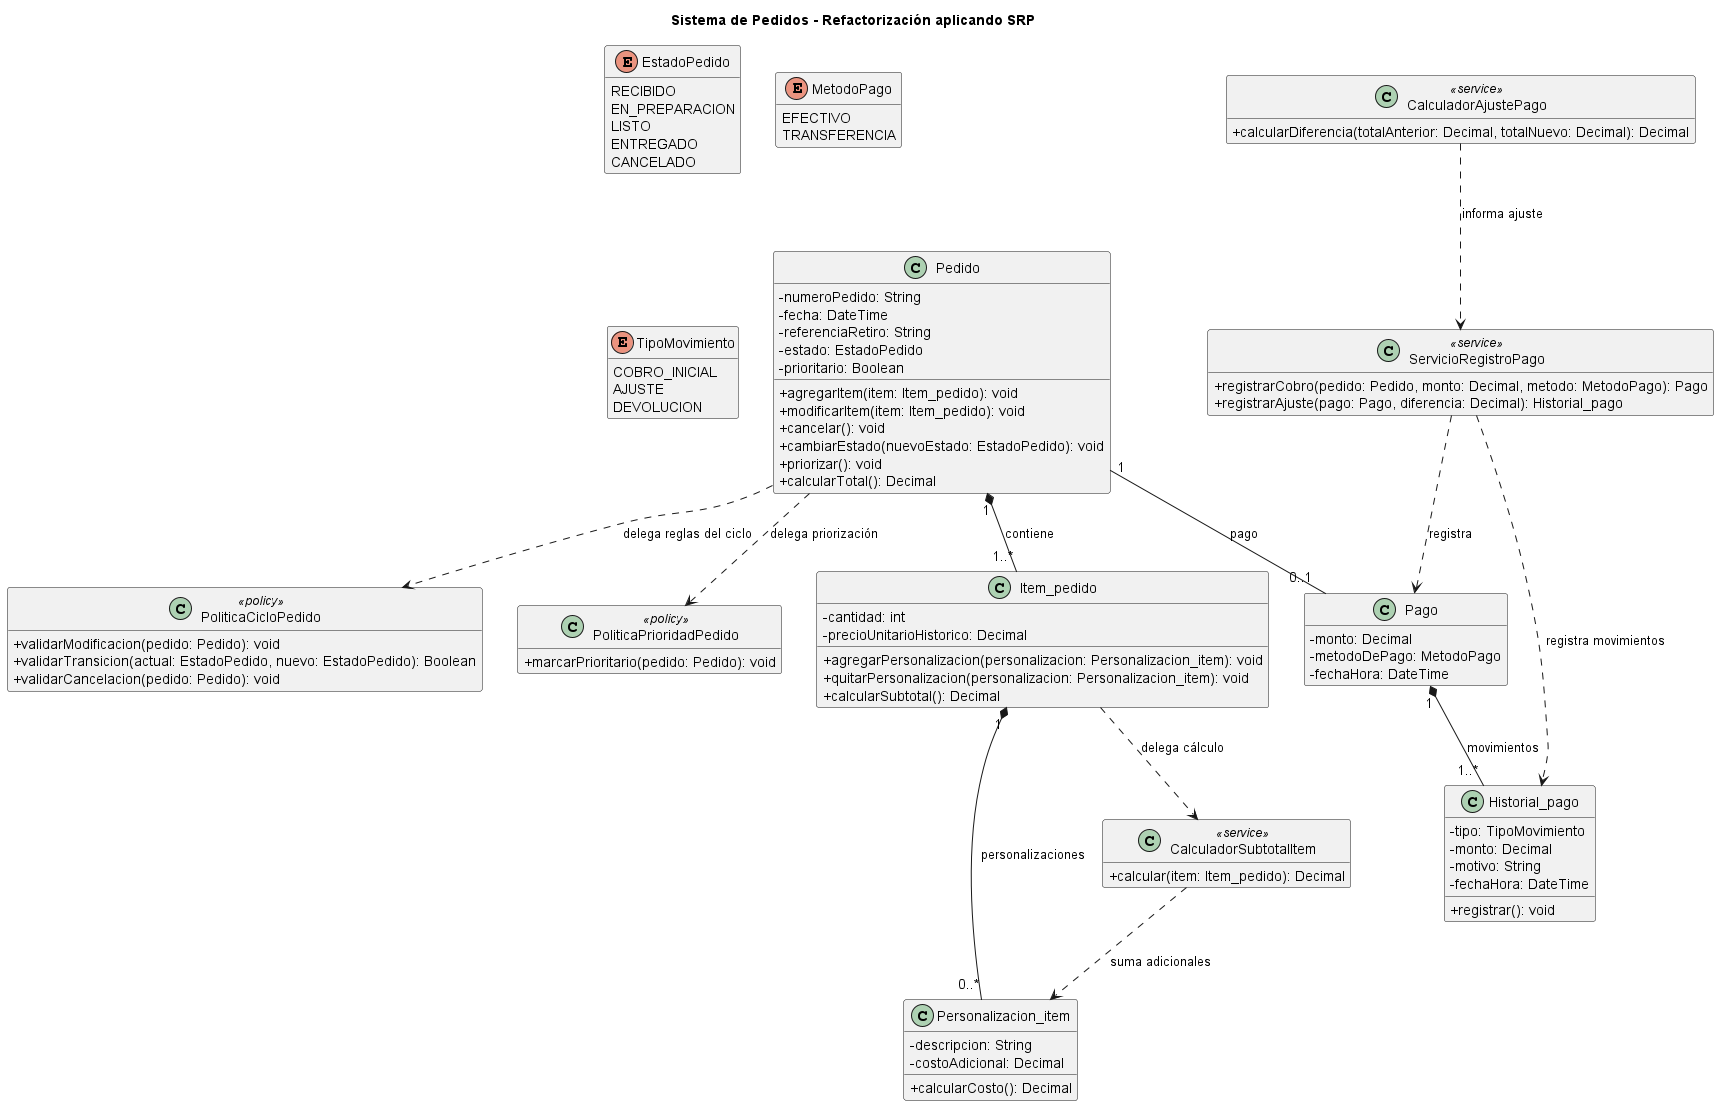
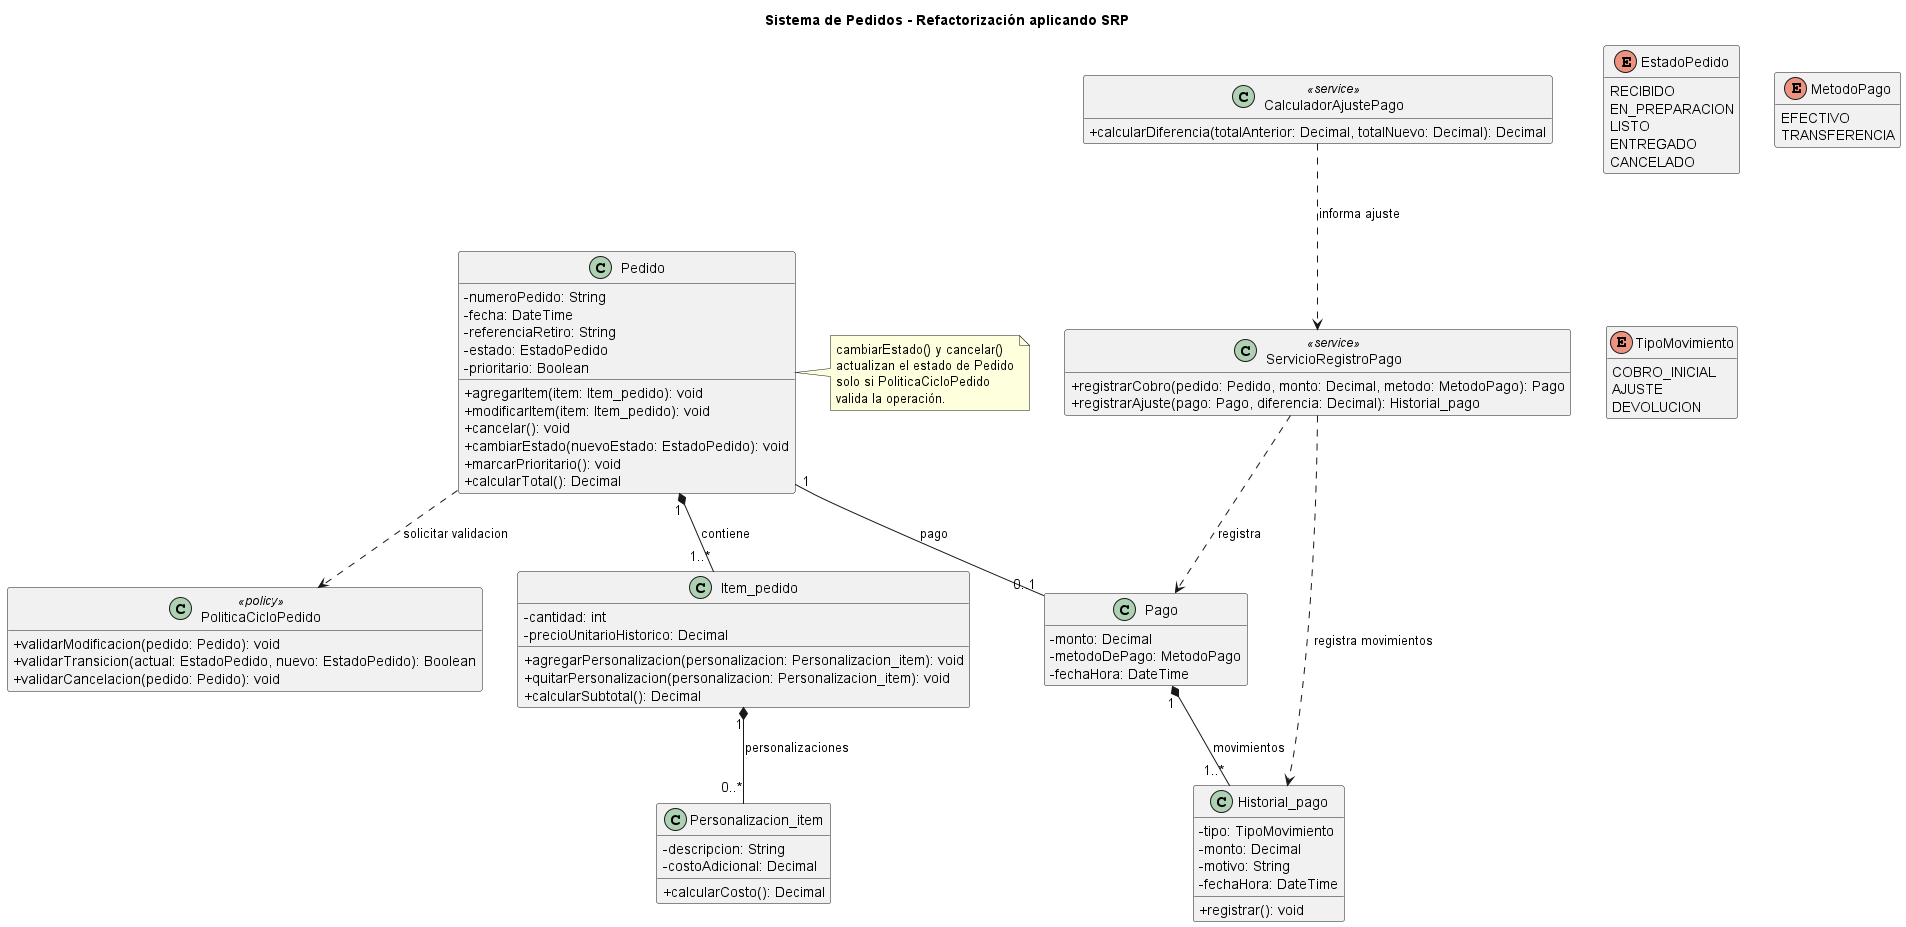
creo rama fix con correcciones de pulido sobre el diagrama srp

diff --git a/anexos/principios-solid/01-srp.md b/anexos/principios-solid/01-srp.md
@@ -12,7 +12,7 @@ La aplicación del **Principio de Responsabilidad Única (SRP)** soluciona el pr
 
 - **Gestión de la Estructura de la Orden**: Almacenar y administrar la información propia de la orden (identificador, fecha, referencia de retiro y la colección de ítems).
 - **Control del Ciclo de Vida y Transiciones de Estado**: El pedido puede cambiar de estado (de `RECIBIDO` a `EN_PREPARACION`, `LISTO`, `ENTREGADO` o `CANCELADO`) y aplicar reglas de como **bloquear modificaciones si el estado es posterior a** **RECIBIDO**.
-- **Evaluación de la Prioridad del Pedido**: Determinar las reglas comerciales para calcular si un pedido es prioritario o no (según el perfil del cliente, tipo de retiro o nivel de urgencia).
+- **Priorización del Pedido**: La operación para marcar un pedido como prioritario estaba mezclada con las demás operaciones de `Pedido`. Según el requisito RF7, la marca es manual; no se definen criterios automáticos de prioridad.
 
 #### ¿Por qué esto es un problema?
 
@@ -25,10 +25,10 @@ La aplicación del **Principio de Responsabilidad Única (SRP)** soluciona el pr
 
 El **Principio de Responsabilidad Única (SRP)** establece formalmente que **una clase debe tener una y solo una razón para cambiar**.
 
-SRP soluciona el problema obligándonos a **separar las estructuras de datos de las políticas y reglas de negocio cambiantes**, extrayendo servicios especializado.
+SRP ayuda a separar las responsabilidades que tienen razones de cambio distintas, manteniendo el estado y las operaciones propias del pedido en `Pedido` y delegando la validación del ciclo de vida a una política especializada.
 
 
-Para resolver el problema en el **Sistema de Pedidos**, se descomponen las responsabilidades de la clase original `Pedido` en **tres clases con responsabilidades únicas y bien delimitadas**[3][4]:
+Para resolver el problema en el **Sistema de Pedidos**, se distribuyen las responsabilidades entre la entidad `Pedido`, sus entidades relacionadas y servicios especializados:
 
 ```
 [ DISEÑO ORIGINAL (SIN SRP) ]
@@ -39,7 +39,7 @@ Para resolver el problema en el **Sistema de Pedidos**, se descomponen las respo
 ├────────────────────────────────────────────────────────┤
 │ + agregarItem(), cancelar()                            │  &lt;-- Estructura
 │ + cambiarEstado(), validarModificacionEnRecibido()     │  &lt;-- Ciclo de Vida
-│ + evaluarPrioridad(), asignarPrioridad()              │  &lt;-- Priorización
+│ + priorizar()                                         │  &lt;-- Marcado manual de prioridad
 └────────────────────────────────────────────────────────┘
 
 ```
@@ -49,25 +49,21 @@ Para resolver el problema en el **Sistema de Pedidos**, se descomponen las respo
 ```
 [ DISEÑO REFACTORIZADO (CON SRP) ]
 
- ┌────────────────────────────────────────┐
- │ Pedido (Entidad Agregada)             │
- ├────────────────────────────────────────┤
- │ - fecha, referenciaRetiro              │
- │ - estado: EstadoPedido                 │
- ├────────────────────────────────────────┤
- │ + agregarItem(), obtenerTotal()        │  &lt;-- Única Razón de Cambio:
- └────────────────────────────────────────┘      Cambios en los datos de la orden.
-     │                   │
-     ▼                   ▼
- ┌────────────────────────────────────────┐   ┌────────────────────────────────────────┐
- │ PoliticaCicloPedido                    │   │ PoliticaPrioridadPedido                │
- ├────────────────────────────────────────┤   ├────────────────────────────────────────┤
- │ + validarCambioEstado()                │   │ + evaluarCriterioPrioridad()           │
- │ + permitirModificacionEnRecibido()     │   │ + asignarPrioridad()                   │
- │ + validarCancelacion()                 │   └────────────────────────────────────────┘
- └────────────────────────────────────────┘       Única Razón de Cambio:
-     Única Razón de Cambio:                       Reglas comerciales de prioridad.
-     Reglas de negocio del ciclo de vida.
+Pedido
+  - mantiene sus datos, estado y marca manual de prioridad
+  - calcula el total sumando los subtotales de sus ítems
+  - delega la validación del ciclo de vida a PoliticaCicloPedido
+  - contiene Item_pedido
+
+Item_pedido
+  - mantiene la cantidad y el precio unitario histórico
+  - calcula su subtotal considerando sus personalizaciones
+  - contiene Personalizacion_item
+
+ServicioRegistroPago
+  - registra cobros y ajustes en Pago e Historial_pago
+CalculadorAjustePago
+  - calcula la diferencia entre el total anterior y el nuevo
 
 ```
 
@@ -76,14 +72,13 @@ Para resolver el problema en el **Sistema de Pedidos**, se descomponen las respo
 **Desglose de las Clases Refactorizadas**
 
  **Pedido** :
-  * **Responsabilidad Única**: Representar la entidad principal de la orden y mantener la coherencia de sus datos internos (ítems, estado actual, fecha, referencia de retiro).
-  * **Única Razón para Cambiar**: Que cambie los datos que componen un pedido.
+  * **Responsabilidad**: Representar la orden y mantener la coherencia de sus datos y estado, incluida la marca manual de prioridad; calcula el total a partir de sus ítems.
+  * **Razón para Cambiar**: Cambios en los datos y las operaciones propias de una orden.
  **PoliticaCicloPedido** **(Componente/Servicio de Dominio)**:
-  * **Responsabilidad Única**: Enforzar y validar todas las reglas de negocio asociadas a los estados del pedido.
+  * **Responsabilidad Única**: Validar las reglas de negocio asociadas a las modificaciones, transiciones y cancelaciones del pedido. `Pedido` aplica el cambio de estado después de la validación.
   * **Única Razón para Cambiar**: Que cambien las reglas del negocio sobre el flujo de trabajo (por ejemplo, si se habilita modificar un pedido en estado `EN_PREPARACION` o si cambian los requisitos de cancelación).
- **PoliticaPrioridadPedido** **(Componente/Servicio de Dominio)**:
-  * **Responsabilidad Única**: Calcular y asignar el nivel de prioridad de los pedidos.
-  * **Única Razón para Cambiar**: Que la empresa cambie los criterios comerciales para priorizar pedidos.
+ **Priorización manual**:
+  * `Pedido` expone `marcarPrioritario()` para actualizar su marca de prioridad de forma controlada. No se incluye `PoliticaPrioridadPedido`, ya que el requisito establece una decisión manual y no define reglas automáticas que evaluar.
 
    ### Estructura de clases
 
@@ -95,12 +90,12 @@ Para resolver el problema en el **Sistema de Pedidos**, se descomponen las respo
    ## Justificación Técnica  
    En el diagrama de clases refactorizado se observa una organización estructurada en **tres módulos principales del dominio** (**Módulo Pedido**, **Módulo Pago** y **Módulo Ítem Pedido**):
 
-Las clases y sus relaciones reflejan el **Principio de Responsabilidad Única (SRP)** al fragmentar las razones de cambio en componentes enfocados.
+Las clases y sus relaciones distribuyen las responsabilidades entre componentes enfocados, evitando atribuir a un servicio una decisión de prioridad que el requisito define como manual.
 
-En el **Módulo Pedido**, la entidad **Pedido** conserva únicamente la responsabilidad de mantener la estructura de la orden y sus ítems, mientras que mediante relaciones de uso (`--&gt;`) delega la validación de estados y cancelaciones a **PoliticaCicloPedido**, y la asignación de prioridades comerciales a **PoliticaPrioridadPedido**.
+En el **Módulo Pedido**, la entidad **Pedido** mantiene la estructura de la orden, sus ítems, su estado y su marca manual de prioridad. `Pedido` ofrece las operaciones que actualizan su propio estado; antes de las transiciones y cancelaciones, **PoliticaCicloPedido** valida si las reglas del dominio las permiten. No hay una política de prioridad, porque el requisito pide que el usuario marque manualmente el pedido como prioritario.
 
- En el **Módulo Pago**, la clase **Pago** actúa como un registro del cobro, delegando el procesamiento activo a **ServicioRegistroPago** y el cálculo de ajustes o devoluciones por modificaciones al **CalculadorAjustePago**, el cual registra los movimientos en **Historial_pago**. 
+En el **Módulo Pago**, la clase **Pago** representa el cobro asociado al pedido. **ServicioRegistroPago** registra los cobros y ajustes, y **CalculadorAjustePago** calcula la diferencia entre el total anterior y el nuevo; el servicio registra el movimiento correspondiente en **Historial_pago**.
  
-  en el **Módulo Ítem Pedido**, **Item_pedido** mantiene la cantidad y el precio unitario histórico acordado, delegando a **CalculadorSubtotalItem** la matemática del subtotal junto con las adicionales de **Personalizacion_item**.
+  En el **Módulo Ítem Pedido**, **Item_pedido** mantiene la cantidad y el precio unitario histórico acordado y calcula su propio subtotal, considerando las personalizaciones de **Personalizacion_item**. **Pedido** calcula el total sumando los subtotales de sus ítems. Así, el cálculo del subtotal y el del total tienen alcances distintos, sin duplicar el cálculo del subtotal en un servicio aparte.
 
-Desde un punto de vista tecnico, al garantizar que cada clase tenga una sola razón para cambiar, cualquier modificación en las reglas de negocio, queda encapsulada en su servicio correspondiente, previniendo efectos colaterales sobre las estructuras de datos principales. Además, esta arquitectura optimiza la **testabilidad unitaria**, permitiendo probar algoritmos de cálculo y políticas de estado de forma aislada sin necesidad de instanciar grafos complejos de objetos, garantizando al mismo tiempo la **inmutabilidad de pagos y precios históricos** que exige el dominio del proyecto.
+Desde un punto de vista técnico, las reglas del ciclo de vida y el cálculo de ajustes se mantienen en componentes especializados, mientras que cada entidad protege la coherencia de sus propios datos. Esta separación facilita probar las reglas y los cálculos de forma aislada y conserva el precio histórico acordado para los ítems.

diff --git a/ia/primer-parcial/especialista-srp.md b/ia/primer-parcial/especialista-srp.md
@@ -7,13 +7,13 @@
 
   --- 
 
-  ## 1. Archivos de Contexto Referenciados: 
+## 1. Archivos de Contexto Referenciados: 
   * `anexos/introduccion.md\` 
   * `diagramas/01-diagrama-clases/01-boceto-inicial.excalidraw\`
   * `herramientas-agile/tarjetas-crc/\` 
-   
-   --- 
-   ## 2. Prompt Utilizado:
+ 
+ --- 
+ ## 2. Prompt Utilizado:
    ```text
    anexos/introduccion.md
    diagramas/01-diagrama-clases/01-boceto-inicial.excalidraw
@@ -23,8 +23,7 @@
    no modifiques archivos
  ```
 
- 
-  ## 3. Output obtenido:
+## 3. Output obtenido:
 
 - Análisis de clases según el Principio de Responsabilidad Única (SRP)
 
@@ -56,4 +55,6 @@ Por eso, separar estas reglas reduce el acoplamiento sin perder trazabilidad ni 
 
   ## 4. Ajustes realizados:
 
-  * Se realizaron ajustes de diseño con el fin de simplificar el modelo: Se elimino el atributo `idPedido` debido a que las clases no precisan de un identificador unico como "id". 
+  * Aparecen cancelar() y cambiarEstado() en Pedido, y PoliticaCicloPedido, por lo que no se identifica quién valida y quién aplica el cambio. para eso se incorporo "solicita validación" en la relacion y tambien una nota.
+  * Aparecen calcularTotal() en Pedido, calcularSubtotal() en Item_pedido y CalculadorSubtotalItem. Genera duda en si el calculo se encneuntra duplicado o si las clases realizan distintos calculos, po lo que se elimina CalculadorSubtotalItem, y en la relacion de Pedido e Item_pedido se indico la suma de subtotales.
+  * aparecen el atributo prioritario y priorizar() en Pedido, además de marcarPrioritario() en PoliticaPrioridadPedido. no queda claro quien quien toma la desicion y quien actualiza el dato. para que la prioridad se indique de manera manual como se indica en la intrduccion, se elimino PoliticaPrioridadPedido y se remplazo priorizar() por marcarPrioritario() en Pedido.
